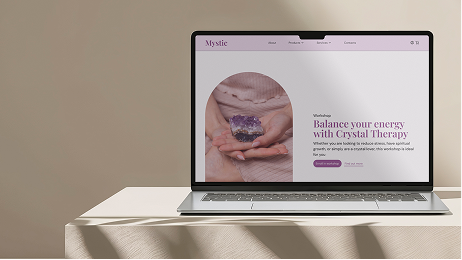
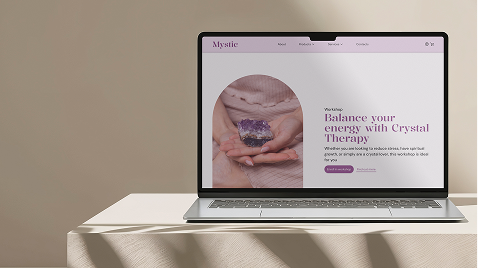
Add files via upload

diff --git a/style.css b/style.css
@@ -40,6 +40,8 @@
     font-family: "Readex Pro", sans-serif;
     font-weight: 400;
     scroll-behavior: smooth;
+    scrollbar-color: var(--primary600);
+    scrollbar-width: thin;
 }
 
 
@@ -392,8 +394,8 @@ details {
 }
 
 #work-main {
-    display: flex;
-    flex-wrap: wrap;
+    display: grid;
+    grid-template-columns: auto auto auto;
     gap: 32px 16px;
     width: 100%;
 }
@@ -635,6 +637,10 @@ footer p {
     justify-self: stretch;
 }
 
+.project-item .title h4 {
+    color: var(--primary200);
+}
+
 .project-item .text {
     display: flex;
     flex-direction: column;
@@ -761,8 +767,22 @@ footer p {
         width: 100%;
     }
 
+    #work-main {
+        grid-template-columns: auto auto;
+    }
+
     #faqs-main {
         grid-column: 1 / span 10;
+    }
+
+    #project-section {
+        grid-column: 1 / span 9;
+    }
+
+    .project-item {
+        display: flex;
+        flex-direction: column;
+        gap: 8px;
     }
 }
 
@@ -798,7 +818,73 @@ footer p {
         filter: blur(16px);
     }
 
-        #faqs-main {
+    #work {
+        width: 100%;
+        height: 100%;
+        overflow: hidden;
+    }
+
+    #work-main {
+        display: flex;
+        overflow-x: scroll;
+
+        scroll-snap-type: x mandatory;
+        cursor: grab;
+        scroll-marker-group: after;
+        anchor-name: --work-main;
+        -ms-overflow-style: none;
+        scrollbar-width: none;
+    }
+
+    #work-main::-webkit-scrollbar {
+        display: none;
+    }
+
+    .work-card {
+        flex: 0 0 80%;
+        scroll-snap-align: center;
+    }
+
+    #work-main::scroll-marker-group {
+        position: absolute;
+        position-anchor: --work-main;
+        top: calc(anchor(bottom) + 20px);
+        justify-self: anchor-center;
+        display: flex;
+        justify-content: center;
+        gap: 8px;
+    }
+
+    .work-card::scroll-marker {
+        content: attr(data-accName);
+        width: 12px;
+        height: 12px;
+        background-color: var(--primary200);
+        border-radius: 50%;
+        overflow: hidden;
+        text-indent: 8px;
+        transition: 0.3s;
+    }
+
+    .work-card::scroll-marker:target-current {
+        background-color: var(--primary600);
+    }
+
+    #faqs-main {
         grid-column: 1 / span 12;
+    }
+
+    #project-section {
+        grid-column: 1 / span 12;
+    }
+
+    .project-item {
+        display: flex;
+        flex-direction: column;
+        gap: 8px;
+    }
+
+    #project #nav-section {
+        visibility: hidden;
     }
 }